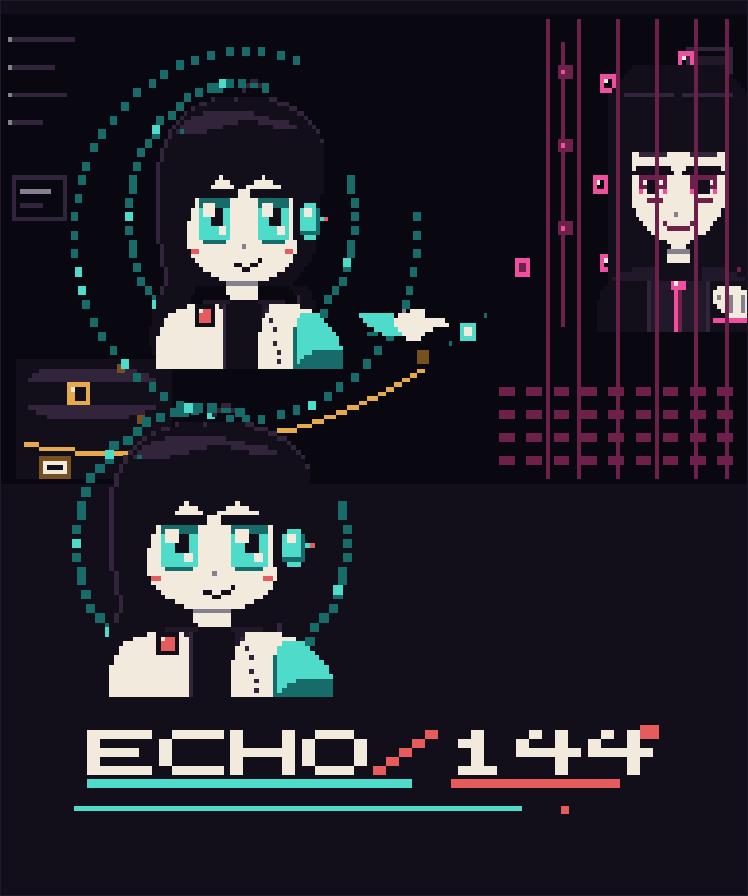
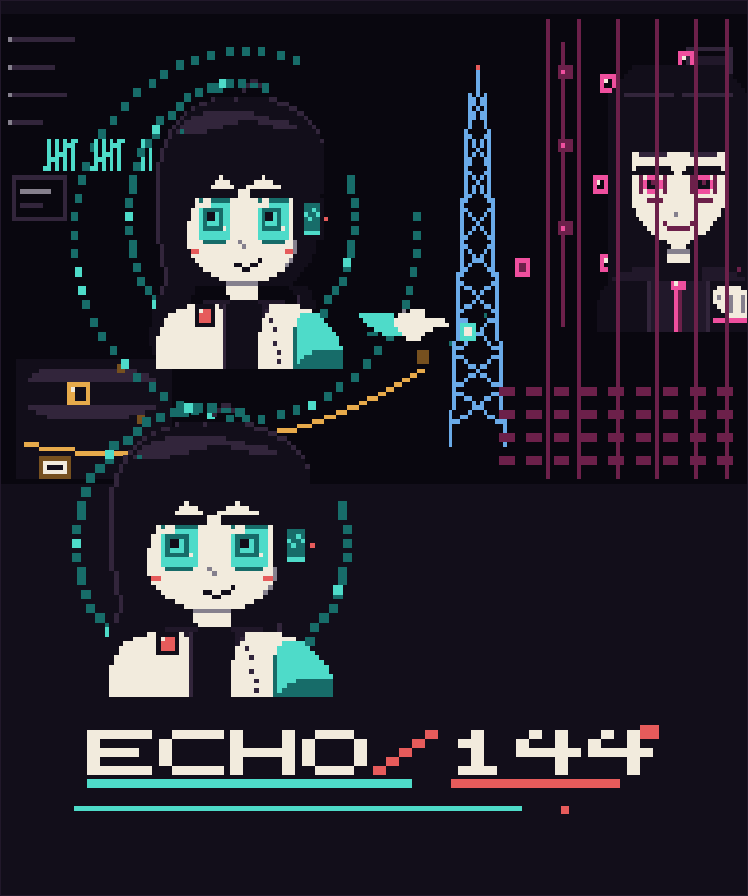
art: V3.1 reception-ring refactor from Jigen Tsuushin + Helltaker references
Studied real reference images (Steam capsule/header/in-game screenshots;
Jigen Tsuushin MV thumbnail, SD dance chibi, cyan/magenta split cover) and
applied part-level lessons (motifs only, not tracing).

- Portraits: rebuilt all three eyes as concentric reception/aperture rings
  (Echo cyan tuning dial, Seek amber lens, NOA perfect magenta aperture —
  precision itself reads as unease); ties to 06 'character = rule'
- Echo: single receiver upgraded to a waveform signal-meter (keeps the
  one-ear canon), cool duotone shadow on the key-light-off side
- Keyart: SIGNAL BLUE lattice broadcast towers + 正-style 64-answer tally
  marks (ensemble 12/64, echo-waiting 3/64) to visualize the core hook;
  one big background symbol per screen kept
- Echo SD: eye catch-lights + crown rim so dark hair lifts off VOID
- Helltaker lessons (3-value contrast, single focal prop, SD readability)
  confirmed and kept; Echo not made cocky (stays polite/waiting per canon)
- Analysis in docs/43 §12; art.inc contract unchanged, gcc syntax OK

Claude-Session: https://claude.ai/code/session_01TeWGjjLpVpQpwxbJRdvbRY

diff --git a/tools/build_art.py b/tools/build_art.py
@@ -182,19 +182,30 @@ def echo_portrait(expression: int = 0) -> Canvas:
         q.px(x0 - 1, y0, B); q.px(x0 + w_, y0, B)
         q.px(x0 - 1, y0 + 1, B); q.px(x0 + w_, y0 + 1, B)
         q.rect(x0 + 1, y0 + lid, w_ - 2, 11 - lid, C)
-        q.rect(x0 + 1, y0 + lid, w_ - 2, 2, CD)
+        # reception-dial iris: concentric cyan/dark rings + pupil (Echo is a receiver).
+        cx, cy = x0 + w_ // 2 - 1 + dx, y0 + (7 if half else 6)
+        for yy in range(y0 + lid, y0 + 11):
+            for xx in range(x0 + 1, x0 + w_ - 1):
+                r = max(abs(xx - cx), abs(yy - cy))
+                if r >= 3:
+                    q.px(xx, yy, C)
+                elif r == 2:
+                    q.px(xx, yy, CD)   # the dark tuning ring
+                elif r == 1:
+                    q.px(xx, yy, C)    # inner glow
+        q.rect(cx - 1, cy - 1, 2, 2, B)      # pupil
+        q.rect(x0 + 1, y0 + lid, w_ - 2, 1, CD)   # top rim shadow
         if half:
             q.rect(x0, y0, w_, 4, B)
             q.rect(x0 + 1, y0 + 4, w_ - 2, 1, CD)
-        px_, py = x0 + w_ // 2 - 1 + dx, y0 + (5 if half else 4)
-        if mode == "wide":
-            q.rect(px_, py, 2, 3, B)
-            q.rect(x0 + 2, y0 + 2, 3, 3, W)
+        if mode == "wide":                    # surprise: pupil shrinks, dial wide open
+            q.px(cx, cy, B); q.px(cx - 1, cy - 1, B)
+            q.rect(x0 + 2, y0 + 2, 3, 3, W); q.px(x0 + 1, y0 + 2, W)
             q.rect(x0 + w_ - 4, y0 + 7, 3, 3, W)
         else:
-            q.rect(px_, py, 3, 4, B)
-            q.rect(x0 + 2 + dx, y0 + 3, 3, 3, W)
-            q.rect(x0 + w_ - 4 + dx, y0 + 8, 2, 2, W)
+            q.rect(x0 + 2 + dx, y0 + 2, 2, 2, W)      # main catch-light
+            q.px(x0 + 1 + dx, y0 + 3, W)              # +1 for a sparkle glint
+            q.px(x0 + w_ - 3 + dx, y0 + 8, W)         # lower sparkle
         q.rect(x0 + 2, y0 + 11, w_ - 4, 1, CD)
 
     emap = {
@@ -232,13 +243,19 @@ def echo_portrait(expression: int = 0) -> Canvas:
     if expression == 7:
         q.rect(19, 39, 3, 1, R); q.rect(42, 39, 3, 1, R)
 
-    # headset over viewer-right side lock
-    q.rect(47, 28, 5, 8, C)
-    q.px(47, 28, B); q.px(51, 28, B); q.px(47, 35, B); q.px(51, 35, B)
-    q.rect(47, 34, 5, 1, CD); q.rect(51, 29, 1, 5, CD)
-    q.rect(48, 29, 2, 2, W)
-    q.rect(52, 31, 1, 1, C)
-    q.px(53, 31, R)  # standby light: still waiting to hear
+    # cool duotone shade on the shadow side (right, away from the ring's key light)
+    for y in range(24, 42):
+        if q.get(45, y) == W:
+            q.px(45, y, D)
+    q.px(44, 40, D); q.px(43, 41, D)   # jaw turn
+    q.px(31, 36, D)                     # under-nose ambient
+
+    # headset over viewer-right side lock — a signal-meter screen (Jigen Tsuushin cue)
+    q.rect(47, 27, 6, 9, B)
+    q.rect(48, 28, 4, 6, CD)           # dark screen
+    q.px(48, 30, C); q.px(49, 31, C); q.px(50, 29, C); q.px(51, 30, C)  # tiny waveform tick
+    q.rect(48, 34, 4, 1, C)            # screen base glow
+    q.px(53, 31, R)                    # standby light: still waiting to hear
 
     # neck + body
     for y, x0, x1 in [(45, 28, 35), (46, 28, 35), (47, 28, 35), (48, 29, 35)]:
@@ -387,12 +404,12 @@ def seek_portrait(expression: int = 0) -> Canvas:
         q.px(ex - 1, ey + 1, B); q.px(ex + 8, ey + 1, B)
         h = 5 if wide else 4
         q.rect(ex, ey + 1, 8, h + 1, W)
-        q.rect(ex + 1, ey + 1, 6, h, A)
-        q.rect(ex + 1, ey + 1, 6, 1, AD)
-        q.rect(ex + 3, ey + 2, 2, 2, B)
-        q.px(ex + 2, ey + 2, W)
+        q.rect(ex + 1, ey + 1, 6, h, A)            # amber iris
+        q.frame(ex + 2, ey + 1, 4, 3, AD)         # dark reception ring (dial)
+        q.rect(ex + 3, ey + 2, 2, 1, B)           # pupil
+        q.px(ex + 2, ey + 1, W)                    # single glint on the ring
         if wide:
-            q.px(ex + 6, ey + 4, C)
+            q.px(ex + 6, ey + 3, C)               # a live cyan reflection
         q.rect(ex + 2, ey + 2 + h, 5, 1, D)
         q.px(ex + 7, ey + 2 + h, B)
 
@@ -485,13 +502,15 @@ def noa_portrait(expression: int = 0) -> Canvas:
         q.rect(x0, y0, 9, 2, B)
         q.px(x0 - 1, y0 + 1, B); q.px(x0 + 9, y0 + 1, B)
         q.rect(x0, y0 + 2, 9, 5, W)
-        q.rect(x0 + 1, y0 + 2, 7, 4, MD)
-        q.rect(x0 + 1, y0 + 5, 7, 1, M)
-        q.rect(x0 + 3, y0 + 3, 3, 3, B)
-        q.px(x0 + 2, y0 + 3, W); q.px(x0 + 6, y0 + 3, W)
+        q.rect(x0 + 1, y0 + 2, 7, 4, MD)          # iris
+        # aperture-lens iris: a perfectly concentric magenta ring (she is the observer).
+        q.frame(x0 + 2, y0 + 2, 5, 4, M)          # exact ring — too precise to be human
+        q.rect(x0 + 3, y0 + 3, 3, 2, B)           # pupil
+        q.px(x0 + 4, y0 + 3, MD)                   # aperture center
+        q.px(x0 + 2, y0 + 2, W); q.px(x0 + 6, y0 + 2, W)   # profile dots on the ring
         q.px(x0 + 2, y0 + 5, W); q.px(x0 + 6, y0 + 5, W)
-        if expression == 2:
-            q.px(x0 + 4, y0 + 3, W); q.px(x0 + 4, y0 + 5, W)
+        if expression == 2:                        # anomaly: two more viewers appear
+            q.px(x0 + 4, y0 + 2, W); q.px(x0 + 4, y0 + 5, W)
         q.rect(x0 + 3, y0 + 7, 4, 1, MD)
     eye(21); eye(34)
     if expression == 1:
@@ -583,8 +602,15 @@ def echo_frame(pose: int) -> Canvas:
         x = 11 + round(math.cos(math.radians(a)) * 11)
         y = 10 - bob - round(math.sin(math.radians(a)) * 10)
         q.rect(x, y, 2, 2, C if a == 210 else CD)
+    # rim light on the hair crown so the dark silhouette lifts off the VOID arena
+    for x in (4, 5, 6, 17, 18):
+        yy = 5 - bob if x < 8 else 4 - bob
+        if q.get(x, yy) == T:
+            q.px(x, yy, S)
     q.blit(base, 0, -bob if bob else 0)
     q.px(5, 17 - bob, W)
+    # eye catch-lights: tiny reception dots keep her cute and alive at 1x (Jigen chibi cue)
+    q.px(6, 10 - bob, W); q.px(13, 10 - bob, W)
     if pose == 2:
         q.px(2, 18, C); q.px(1, 19, CD)
     if pose == 3:
@@ -939,6 +965,37 @@ def era_edges(q, left=True, right=True):
             q.px(178, 18 + i * 14, D)
 
 
+def antenna_tower(q, cx, top, bottom, c=U):
+    """Lattice broadcast tower (Jigen Tsuushin cue). Network towers read SIGNAL BLUE."""
+    h = max(1, bottom - top)
+    topw, botw = 2, 7
+    def w(i):
+        return topw + (botw - topw) * (i / h)
+    for i in range(h + 1):
+        y = top + i
+        lx, rx = round(cx - w(i)), round(cx + w(i))
+        q.px(lx, y, c); q.px(rx, y, c)
+    step = 8
+    for b in range(top, bottom - step, step):
+        l0, r0 = round(cx - w(b - top)), round(cx + w(b - top))
+        l1, r1 = round(cx - w(b + step - top)), round(cx + w(b + step - top))
+        q.line(l0, b, r1, b + step, c); q.line(r0, b, l1, b + step, c)
+    q.line(cx, top - 5, cx, top, c)   # mast
+    q.px(cx, top - 6, R)              # aircraft beacon: one red blink
+
+
+def tally_marks(q, x, y, count, c=C):
+    """正-style count strokes: how many of the 64 have answered."""
+    gx = x
+    for _ in range(count // 5):
+        for k in range(4):
+            q.line(gx + k * 2, y, gx + k * 2, y + 6, c)
+        q.line(gx - 1, y + 6, gx + 7, y, c)
+        gx += 12
+    for k in range(count % 5):
+        q.line(gx + k * 2, y, gx + k * 2, y + 6, c)
+
+
 def echo_hand(q, x, y):
     for i, (x0, x1) in enumerate(((0, 8), (1, 10), (2, 12), (4, 13), (6, 14))):
         runs(q, y + i, [(x + x0, x + x1, C)])
@@ -958,6 +1015,7 @@ def keyart(kind: int) -> Canvas:
 
     if kind == 0:  # ENSEMBLE: Echo reaches out; Seek pulls; NOA has already answered.
         era_edges(q)
+        antenna_tower(q, 122, 20, 96, U)   # a lone broadcast tower behind the incident
         q.blit(noa_portrait(0), 142, 8)
         for x in (140, 148, 158, 168, 178, 186):
             q.line(x, 4, x, 103, MD if x % 16 else M)
@@ -977,6 +1035,7 @@ def keyart(kind: int) -> Canvas:
         q.rect(107, 76, 3, 3, AD)
         q.rect(10, 99, 8, 5, W); q.frame(10, 99, 8, 5, AD); q.rect(12, 101, 4, 1, B)
         big_ring(q, 62, 50, 44, 40, CD, lit={34, 35, 40, 46, 52}, gap=(10, 70), lit_c=C)
+        tally_marks(q, 12, 30, 12, C)     # how many of the 64 have answered so far
         q.blit(echo_portrait(0), 30, 16)
         echo_hand(q, 92, 68)
         q.rect(118, 70, 4, 4, C); q.rect(119, 71, 2, 2, W)
@@ -984,10 +1043,12 @@ def keyart(kind: int) -> Canvas:
         q.rect(132, 56, 4, 4, M); q.rect(133, 57, 2, 2, MD)
     elif kind == 1:  # ECHO WAITING: the audience that is not there.
         for y in range(20, 96, 9):
-            for x in range(8, 78, 11):
+            for x in range(20, 78, 11):
                 q.frame(x, y, 7, 5, S)
-        q.rect(30, 8, 34, 1, S)
+        antenna_tower(q, 12, 16, 98, U)   # she broadcasts from a tower into the empty seats
+        q.rect(34, 8, 30, 1, S)
         big_ring(q, 128, 52, 46, 42, CD, lit={38}, gap=(10, 70), lit_c=C)
+        tally_marks(q, 150, 84, 3, C)     # almost nobody has answered yet
         q.blit(echo_portrait(0), 96, 18)
         q.rect(88, 70, 3, 3, C)
         for i, x in enumerate((80, 71, 61, 50)):

diff --git a/docs/43_ART_COMPETITIVE_RESEARCH.md b/docs/43_ART_COMPETITIVE_RESEARCH.md
@@ -255,3 +255,32 @@ Image 3: 16색 팔레트·픽셀 군집 기준. 구도는 참조하지 않음.
 - 초상 64×64 3종 전면 재작화 + 표정 15종(에코 8·시크 4·노아 3, 전 프레임 고유성 검증).
 - 전장: 에코 24×24 10포즈(그리드 베이스+포즈 오버레이), 시크 아바타 8/셸 4, 노아 대리체 6/보스 3단계, 적 5종×2(전부 그리드), 카드 아이콘 13(팔각 칩 유지, poly 제거).
 - 키아트 A~F 재구성, 마케팅 7규격·로고 재생성. `validate()`에 앵커 검증(핀/장갑/케이블/투명 홀 금지) 유지.
+
+## 12. 차원통신·헬테이커 실이미지 재분석과 수신-링 리팩토링 (2026-07-17, V3.1)
+
+두 레퍼런스의 실제 이미지(스팀 캡슐/헤더/인게임 스크린샷, 《차원통신》 MV 썸네일·SD 댄스 치비·시안/마젠타 split 커버)를 직접 보며 파트별 교훈을 추출해 반영했다. 원작을 픽셀 단위로 모사하지 않고 구도·명암 배치·모티프만 취한다(41 §6 유지).
+
+### 《차원통신》(次元通信 / Signaling, AnythingBecomeMoe, 2026-01) — 우리 컨셉과 직결
+
+이 곡은 "차원 너머 통신 / 수신양호 / RUOK·IMOK 신호 / 시안(미쿠)·마젠타(테토) 듀오"로, ECHO/144의 "64번의 대답을 기다리는 송출"과 거의 같은 정서다. 실이미지에서 취한 것:
+
+| 관찰 | 우리 반영 |
+|---|---|
+| 홍채가 **동심원 수신 타겟/카메라 조리개**처럼 생김(밝은 링·어두운 링·중심점) | 초상 3종 눈을 전면 교체 — 에코=시안 튜닝 다이얼, 시크=호박 렌즈, 노아=**완벽한 자홍 조리개**(정밀함 자체가 불안). 06 §0 "캐릭터=규칙"의 눈 번역: 에코는 수신기, 노아는 관찰 렌즈. |
+| 오실로스코프 파형 헤드기어 | 에코 한쪽 수신기를 **파형 신호계 화면**으로 격상(파형 틱 + 대기등). 단, "보낼 수 있지만 못 듣는다"의 한쪽 수신기 canon 유지(양쪽 바이저 금지). |
+| 흰 피부에 시안 틴트 그림자(듀오톤) | 에코 얼굴 그림자 측(광원 반대쪽)에 차가운 D 그림자 1px 라인 — CRT 듀오톤 깊이. |
+| 안테나 격자 타워 배경 | 키아트에 **신호 블루(U) 격자 방송탑** 도입(앙상블·에코 대기). 팔레트 canon: SIGNAL BLUE=중립 네트워크. 화면당 큰 배경 기호 1종 규칙 준수. |
+| 정(正)자류 카운트 마크 | 키아트에 **64 응답 카운트 정자 스트로크**(앙상블 12/64, 에코 대기 3/64) — "64번 대답" 훅 시각화. |
+| SD 댄스 치비: 크고 둥근 눈+흰 스티커 외곽선 | 에코 SD 눈에 수신 하이라이트 점 + 어두운 머리 배경 분리용 크라운 림 라이트(전 화면 흰 외곽선은 인게임 부적합이라 배제, 헬테이커식 명도 대비 유지). |
+
+### 헬테이커(Helltaker, vanripper, 2020) — 값·초점·SD 가독성
+
+- **3값 극단 대비 + 단일 훅 표정**: 캡슐의 자신만만한 이빨 미소가 곧 브랜드. 우리는 에코를 루시퍼식 자만으로 바꾸지 않되(에코 canon=정중·기다림), 가슴의 시길 같은 **단일 초점 소품**(LIVE 핀)을 유지. 시크의 송곳니·삼백안이 우리 쪽 "사특한 매력" 담당.
+- **인게임 SD 가독성**: 큰 머리·각진 2~3값 몸통·검은 배경에 골드 목표물만 밝게. 우리 아레나도 중앙 어둠 + 의미색만 강조(응답=시안) 원칙과 정합. 좌우 거대 숫자 UI(29/VII)는 향후 HUD에서 64 카운트를 더 크게 쓰는 근거.
+- **장식 letterbox 프레임**(가시덤불): 우리는 방송 프레임·스캔 베젤로 번역(현행 레터박스 유지).
+
+### 산출물
+
+- 초상 3종 눈 전면 교체(수신/조리개 링), 표정 15종 재빌드·고유성 유지. 에코 헤드셋 신호계·듀오톤 그림자.
+- 에코 SD 10포즈 눈 하이라이트·크라운 림.
+- 키아트 앙상블·에코 대기에 방송탑·정자 카운트. art.inc 계약 불변, gcc 신택스 체크 통과.

diff --git a/docs/CHANGELOG.md b/docs/CHANGELOG.md
@@ -1,5 +1,9 @@
 # 문서 변경 이력
 
+## 2026-07-17 — V3.1: 차원통신·헬테이커 실이미지 참고 수신-링 리팩토링
+
+두 레퍼런스의 실제 이미지를 직접 보며 파트별 교훈을 반영했다(모사 아님, 구도·모티프만). 《차원통신》(차원 너머 통신·수신양호·시안/마젠타 듀오)에서 **동심원 수신-링 홍채**를 도출해 초상 3종 눈을 전면 교체했다 — 에코=시안 튜닝 다이얼, 시크=호박 렌즈, 노아=완벽한 자홍 조리개(정밀함이 곧 불안). 에코 한쪽 수신기를 파형 신호계 화면으로 격상(한쪽 수신기 canon 유지), 얼굴에 차가운 듀오톤 그림자를 넣었다. 키아트에 신호 블루 격자 방송탑과 64 응답 정(正)자 카운트를 도입해 "64번의 대답" 훅을 시각화했다(화면당 큰 배경 기호 1종 규칙 준수). 에코 SD 눈에 수신 하이라이트와 크라운 림을 더했다. 헬테이커에서는 3값 대비·단일 초점 소품(LIVE 핀)·SD 가독성 원칙을 확인·유지했다(에코를 자만형으로 바꾸지 않음). 상세 분석은 [43_ART_COMPETITIVE_RESEARCH.md](43_ART_COMPETITIVE_RESEARCH.md) §12. art.inc 계약 불변, gcc 신택스 체크 통과.
+
 ## 2026-07-17 — V3 아트 패스: 폴리곤 절차 생성 폐기, 그리드 수작업 전환
 
 캐릭터 자산을 폴리곤 좌표 생성에서 **행 단위 런·문자 그리드 수작업 + 비전 검수 루프**로 전면 전환했다(41 §4의 실제 이행). 초상 64×64 3종을 재작화하고 캐릭터별 눈 문법을 확정했다 — 에코 둥근 개방눈(큰 홍채·2점 하이라이트), 시크 삼백안 슬랜트(매달린 홍채·다크서클), 노아 반개 대칭(프로필 점 4개 하이라이트, 이상 프레임에서 6개). 표정 15종(8/4/3) 전 프레임 고유성 검증. 전장 스프라이트(에코 10포즈·시크 아바타 8·셸 4·노아 대리체 6·보스 3단계)와 적 5종을 그리드로 재작화하고, 어두운 머리·후드가 VOID 배경에 매몰되지 않도록 림 라이트 규약(S 승격 + 광원 방향 C 글린트)을 도입했다. 키아트 A~F를 "한 사건" 문법으로 재구성(에코의 화면 밖으로 뻗는 손을 직접 작화, 시크는 눈·태그·케이블만, 노아는 프레임 반진입+베일 전경). 조사 내용과 진단·처방은 [43_ART_COMPETITIVE_RESEARCH.md](43_ART_COMPETITIVE_RESEARCH.md) §11. art.inc 계약(배열명·크기·투명 인덱스 15) 불변, gcc 신택스 체크 통과.
